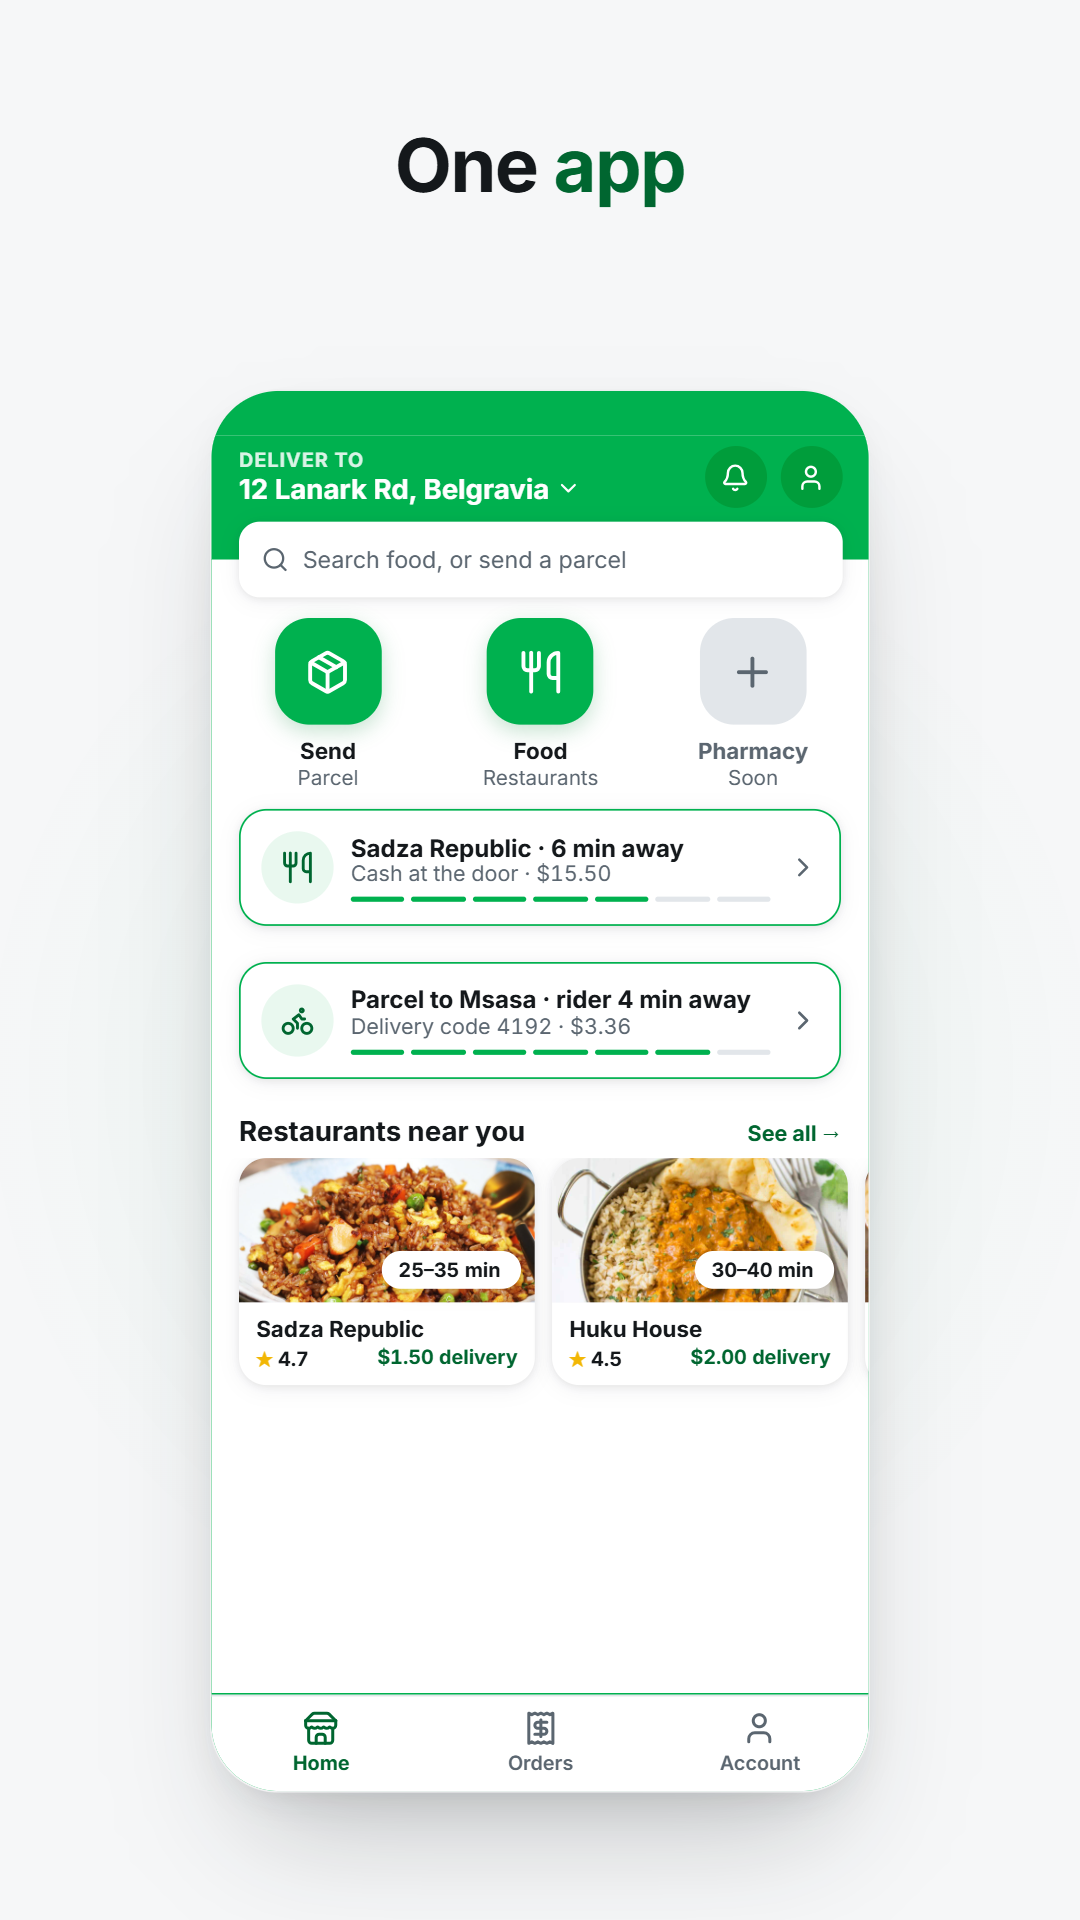
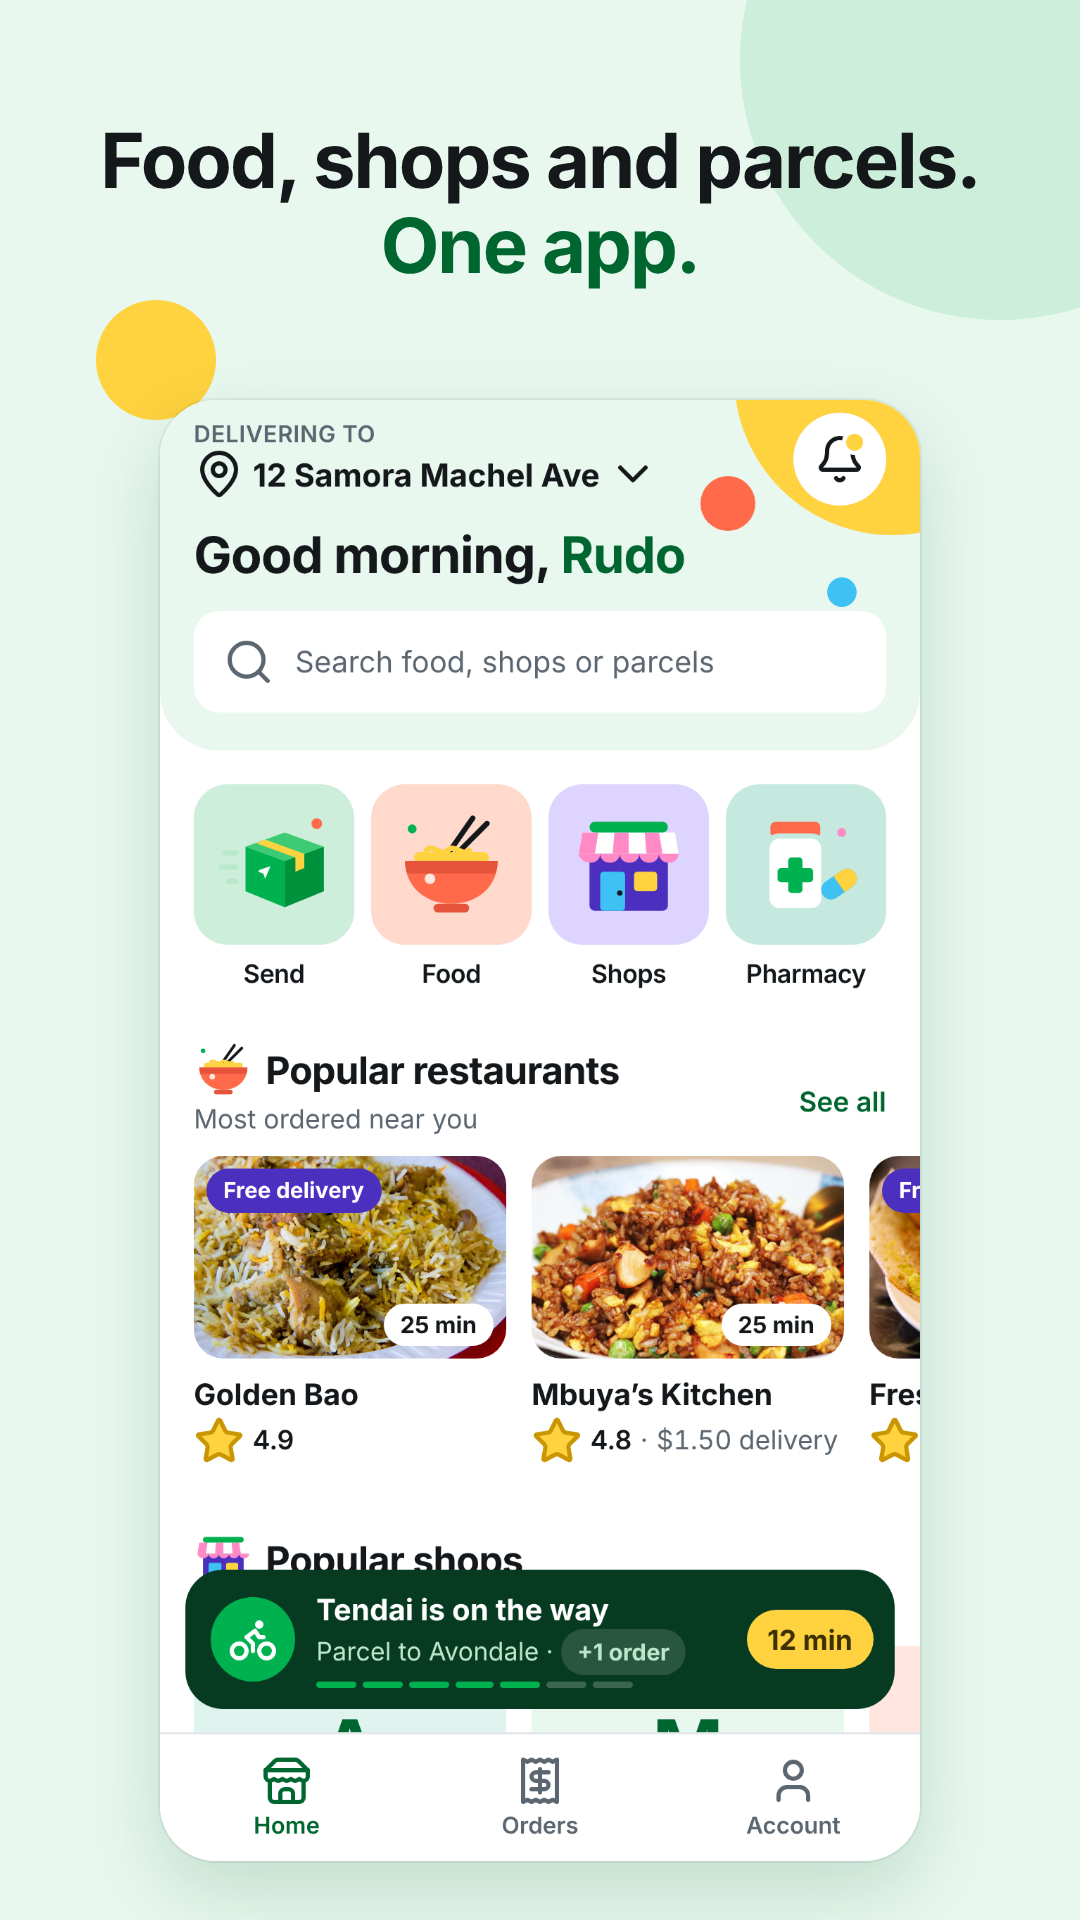
store-assets: replace Play phone screenshots with a 4-shot set from the current handoffs
The old six shots showed the retired Home (home-8c) and a 4-digit delivery
code. The new set is rendered from the current handoffs:

1. Home H1 (calm-mint-v2): Food, shops and parcels. One app.
2. Menu with cart S5 (browse-v2): Order from restaurants in a few taps.
3. On the way T9 (order-flow-v2): Track every order live, to your door.
4. Send a parcel step 3 (send-compose-v2): Send a parcel. Name your price.

render-shots.mjs regenerates them at 1080x1920. Tablet sets and the
feature graphic are flagged in the README as still the old generation.

Claude-Session: https://claude.ai/code/session_01XdnXGg391LFsh27Z9xqEta

diff --git a/store-assets/google-play/README.md b/store-assets/google-play/README.md
@@ -1,5 +1,7 @@
 # LyniaGo — Google Play Store assets
 
+> **2026-10:** the phone screenshots were replaced by a 4-shot set drawn from the current handoffs (below). The tablet sets and feature graphic are still the earlier generation (old Home, 4-digit code) and should be regenerated before they are uploaded again.
+
 Complete Play Console upload set. Every file is authored 1:1 (1 design px = 1 output px), flattened to opaque PNG, and verified to the **exact** dimensions Google Play requires. The six screens are the **real designed LyniaGo app screens** (from the kit — `window.RC` restaurants + `window.LJ` journey), shown **frameless** on a minimal near-white `#F6F7F8` backdrop with soft-rounded corners — no device bezel, notch, or fake status bar (the clock / signal / battery indicators are stripped). One short label sits above each screen.
 
 Regenerate from `../../explorations/store/Play Export Lab.html` (renders every shot at exact Play size) → capture each `#ph-0N` / `#t7-0N` / `#t10-0N` / `#feature` at scale = 1 → flatten to the exact box.
@@ -10,11 +12,11 @@ Regenerate from `../../explorations/store/Play Export Lab.html` (renders every s
 |------|-----------|------|--------|-----|
 | `app-icon/icon-512.png` | 512 × 512 | 19 KB | PNG opaque | ≤ 1 MB |
 | `feature-graphic/feature-graphic-1024x500.png` | 1024 × 500 | 174 KB | PNG opaque | ≤ 15 MB |
-| `phone-screenshots/01–06` | 1080 × 1920 (9:16) | 367–389 KB ea. | PNG | ≤ 8 MB ea. |
+| `phone-screenshots/01–04` | 1080 × 1920 (9:16) | 175–620 KB ea. | PNG opaque | ≤ 8 MB ea. |
 | `tablet-7in/01–06` | 1200 × 2133 (9:16) | 423–449 KB ea. | PNG | ≤ 8 MB ea. |
 | `tablet-10in/01–06` | 1620 × 2880 (9:16) | 651–686 KB ea. | PNG | ≤ 8 MB ea. |
 
-25 files total. Icon and feature graphic contain no transparent pixels (fully opaque).
+23 files total. Icon and feature graphic contain no transparent pixels (fully opaque).
 
 ## Play Console upload map
 
@@ -25,15 +27,25 @@ Regenerate from `../../explorations/store/Play Export Lab.html` (renders every s
 - `feature-graphic/feature-graphic-1024x500.png`
 - Keep in mind Google may overlay the app title/icon — all critical content (wordmark, tagline) is kept in the left/centre safe zone.
 
-**Store listing → Graphics → Phone screenshots** (min 2, up to 8)
-| Slot | File | Label |
-|------|------|-------|
-| 1 | `phone-screenshots/01-home.png` | One **app** |
-| 2 | `phone-screenshots/02-restaurants.png` | Order **food** |
-| 3 | `phone-screenshots/03-menu-cart.png` | Your **cart** |
-| 4 | `phone-screenshots/04-tracking.png` | Track **live** |
-| 5 | `phone-screenshots/05-send-parcel.png` | Send **parcels** |
-| 6 | `phone-screenshots/06-payment.png` | Pay your **way** |
+**Store listing → Graphics → Phone screenshots** (min 2, up to 8) — **2026-10 set, 4 shots**
+| Slot | File | Caption | Screen (handoff frame) |
+|------|------|---------|------------------------|
+| 1 | `phone-screenshots/01-home.png` | Food, shops and parcels. **One app.** | Home H1 — `calm-mint-v2-2026-10` |
+| 2 | `phone-screenshots/02-order-food.png` | Order from restaurants **in a few taps.** | Menu with cart S5 — `browse-v2` |
+| 3 | `phone-screenshots/03-track-live.png` | Track every order **live, to your door.** | On the way T9 — `order-flow-v2` (v2.1) |
+| 4 | `phone-screenshots/04-send-parcel.png` | Send a parcel. **Name your price.** | Step 3 Price — `send-compose-v2` |
+
+1080 × 1920, opaque RGB PNG, 175–620 KB each. Regenerate with
+`node store-assets/google-play/render-shots.mjs` (Playwright + Chromium): it captures each frame at 3×
+from the handoff, crops the status bar, and places it under the caption on the mint (`#E9F8EF`) backdrop.
+Home drops the design-review "NEEDS BACKEND" tag and shows the shipped tile label "Food" (ledger D-65).
+Four shots at 1080 × 1920 keeps large-format promotion eligibility.
+
+Suggested alt text:
+1. LyniaGo Home with Food, Shops, Send and Pharmacy, popular restaurants, and a live order bar.
+2. A restaurant menu with two dishes in the cart and the View cart bar.
+3. Live tracking: the rider on the map, arriving in about 4 minutes, with the order steps.
+4. Sending a parcel: the customer sets their own price, paid in cash to the rider.
 
 **Store listing → Graphics → 7-inch tablet screenshots**
 - `tablet-7in/01-home.png` … `06-payment.png` (same six screens, re-laid for tablet — larger frame, wider margins)
